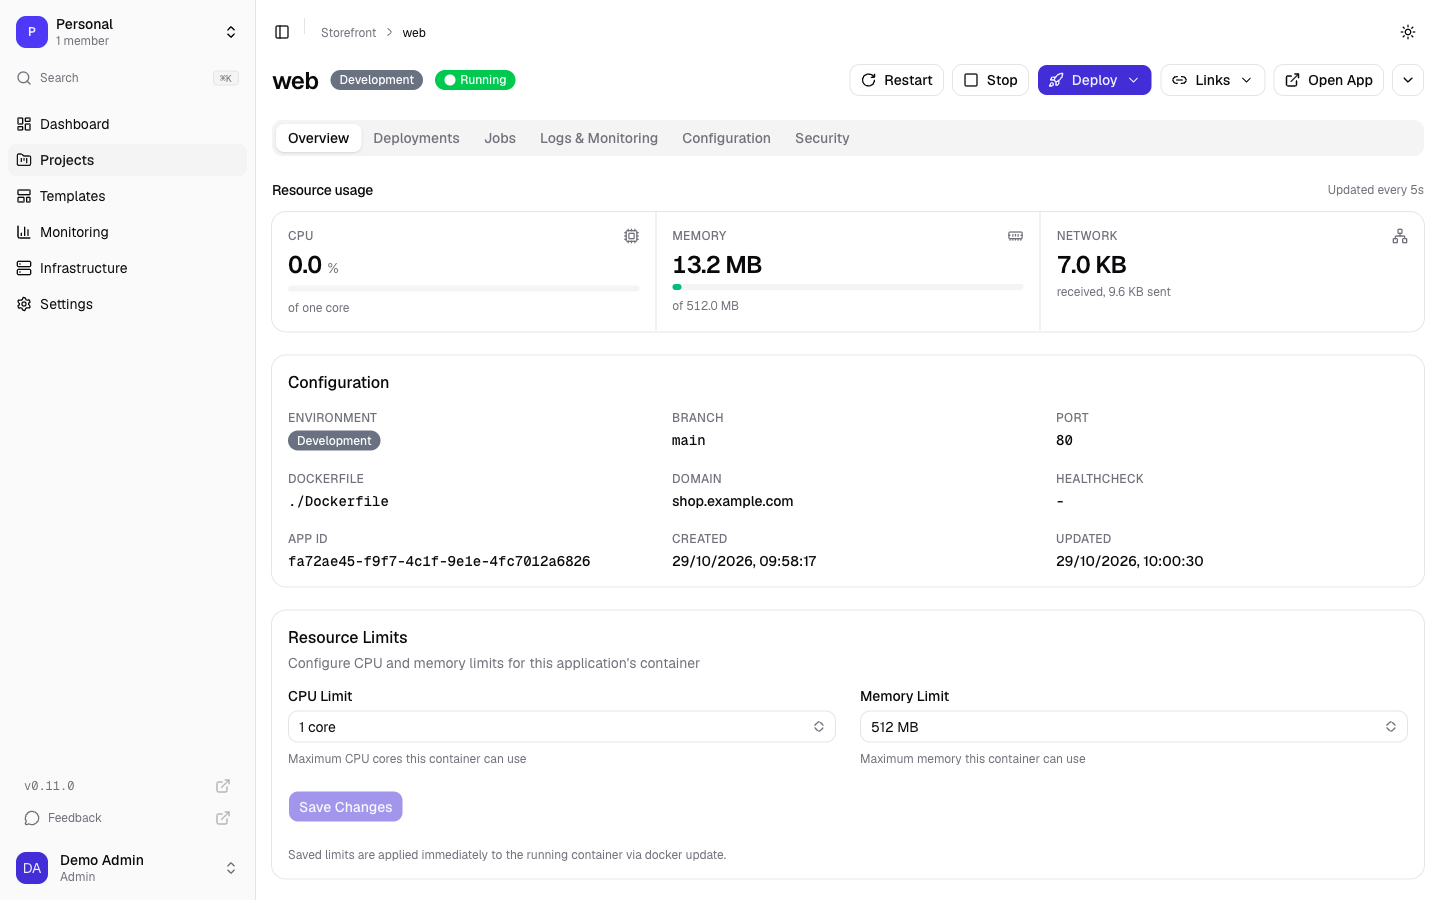
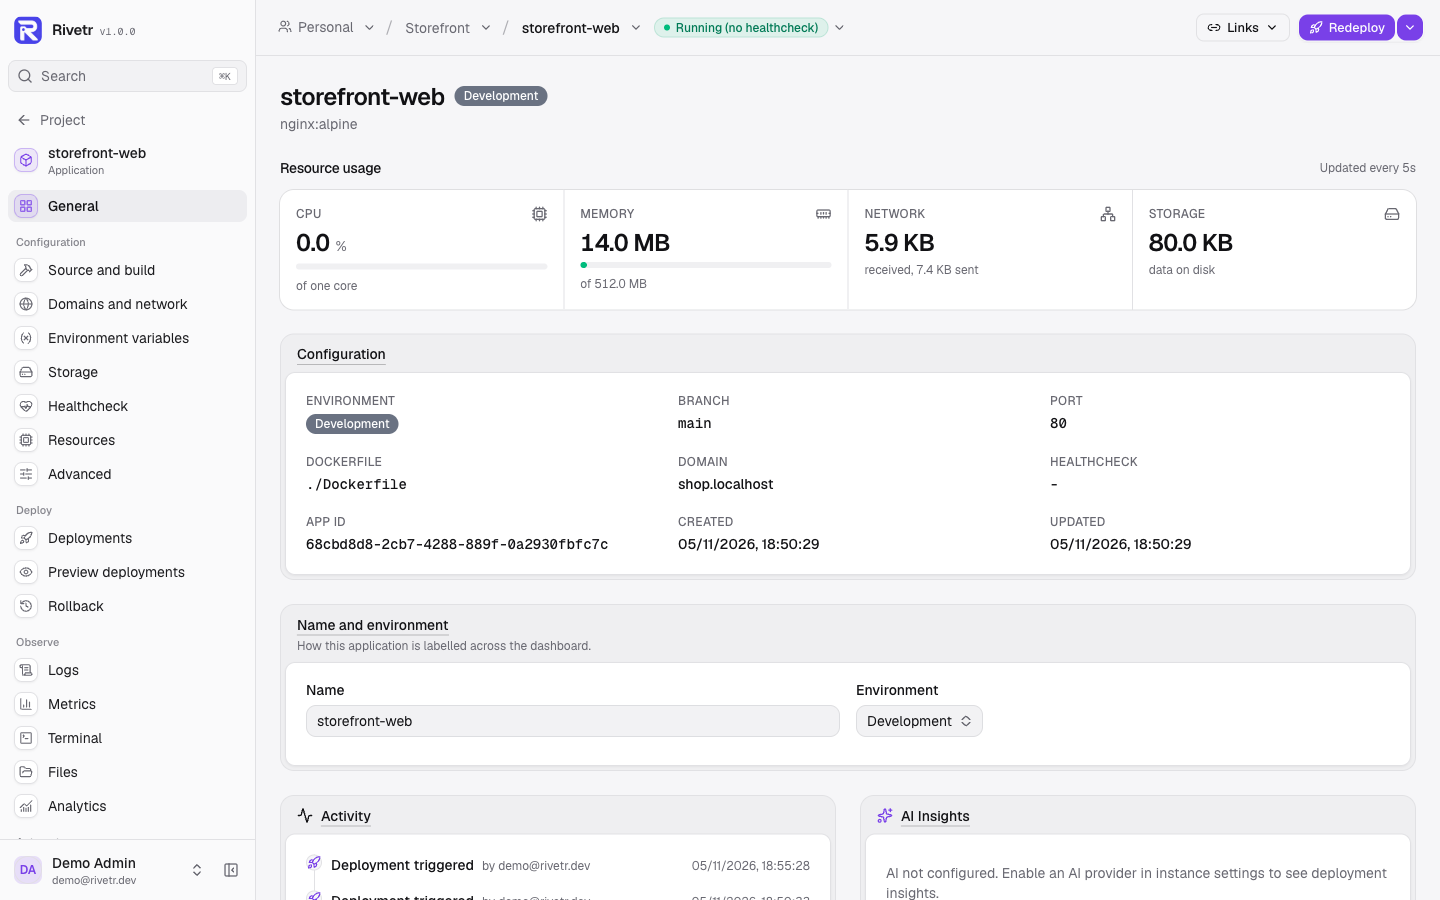
docs(readme): new screenshots for 1.0.0; fix image labels with a tag in the name
Dashboard canvas, app overview, projects and appearance taken from a local demo
instance. The canvas card, app header and registry card no longer show
'nginx:alpine:latest' for an image named with its tag.

diff --git a/frontend/app/components/docker-registry-card.tsx b/frontend/app/components/docker-registry-card.tsx
@@ -1,3 +1,4 @@
+import { imageRef } from "@/lib/image-ref";
 import { useState, useEffect } from "react";
 import { useMutation, useQueryClient } from "@tanstack/react-query";
 import { toast } from "sonner";
@@ -321,7 +322,7 @@ export function DockerRegistryCard({ app, token }: DockerRegistryCardProps) {
             <p className="text-sm text-muted-foreground">
               Currently pulling image:{" "}
               <code className="px-1.5 py-0.5 rounded bg-muted font-mono text-foreground">
-                {app.docker_image}:{app.docker_image_tag || "latest"}
+                {imageRef(app.docker_image, app.docker_image_tag)}
               </code>
               {app.registry_username && (
                 <span className="ml-2">

diff --git a/frontend/app/routes/apps/$id/_layout.tsx b/frontend/app/routes/apps/$id/_layout.tsx
@@ -1,3 +1,4 @@
+import { imageRef } from "@/lib/image-ref";
 import { QueryError } from "@/components/query-error";
 import { useState, useMemo, useEffect } from "react";
 import {
@@ -434,7 +435,7 @@ export default function AppDetailLayout() {
               description={
                 <span className="break-all">
                   {app.docker_image
-                    ? `${app.docker_image}${app.docker_image_tag ? `:${app.docker_image_tag}` : ""}`
+                    ? imageRef(app.docker_image, app.docker_image_tag)
                     : app.git_url || "Uploaded source"}
                   {app.branch && !app.docker_image ? ` · ${app.branch}` : ""}
                 </span>

diff --git a/frontend/app/components/canvas/use-canvas-data.ts b/frontend/app/components/canvas/use-canvas-data.ts
@@ -1,3 +1,4 @@
+import { imageRef } from "@/lib/image-ref";
 import { useMemo } from "react";
 import { useQueries, useQuery } from "@tanstack/react-query";
 import { api } from "@/lib/api";
@@ -67,7 +68,7 @@ const DB_LABEL: Record<string, string> = {
 
 function appSource(app: App): string {
   if (app.docker_image) {
-    return `Image · ${app.docker_image}${app.docker_image_tag ? `:${app.docker_image_tag}` : ""}`;
+    return `Image · ${imageRef(app.docker_image, app.docker_image_tag)}`;
   }
   const build = BUILD_LABEL[app.build_type] ?? "App";
   if (app.deployment_source === "upload") return `${build} · upload`;

diff --git a/frontend/app/lib/image-ref.ts b/frontend/app/lib/image-ref.ts
@@ -1,0 +1,6 @@
+/** Full image reference, without appending a tag when the image name already has one. */
+export function imageRef(image: string, tag?: string | null): string {
+  const last = image.split("/").pop() ?? image;
+  if (image.includes("@") || last.includes(":")) return image;
+  return `${image}:${tag || "latest"}`;
+}

diff --git a/README.md b/README.md
@@ -11,9 +11,14 @@ Deploy applications from Git with a single binary, ~30MB RAM idle, no external d
 [![Build](https://img.shields.io/github/actions/workflow/status/KwaminaWhyte/rivetr/ci.yml?branch=main)](https://github.com/KwaminaWhyte/rivetr/actions)
 [![XERJ Corpus Hub contributor](https://hub.xerj.org/contributors/KwaminaWhyte/badge.svg)](https://hub.xerj.org/contributors/KwaminaWhyte)
 
-![Rivetr projects page](docs/images/projects.png)
+![Rivetr dashboard with the projects canvas](docs/images/dashboard.png)
 
 ![Rivetr app overview with live resource usage](docs/images/app-overview.png)
+
+<p>
+  <img src="docs/images/projects.png" alt="Rivetr projects page" width="49%" />
+  <img src="docs/images/appearance.png" alt="Rivetr theme customisation" width="49%" />
+</p>
 
 ## What is Rivetr?
 
